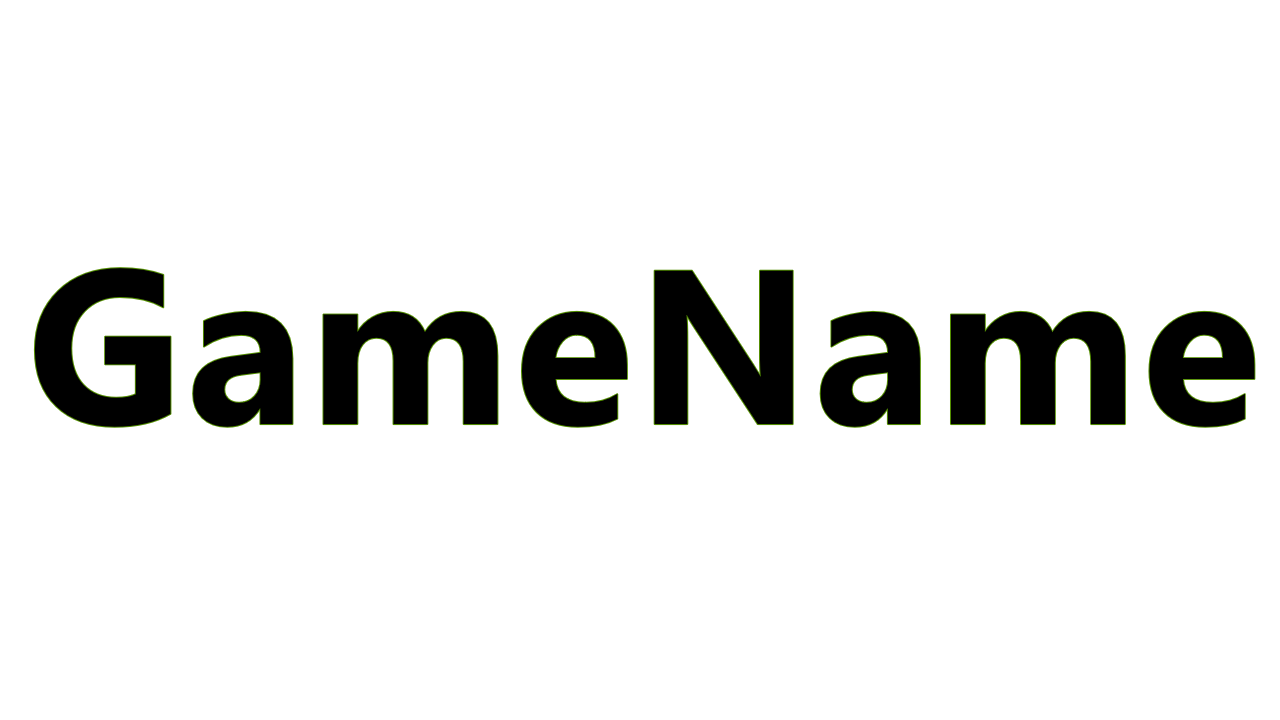
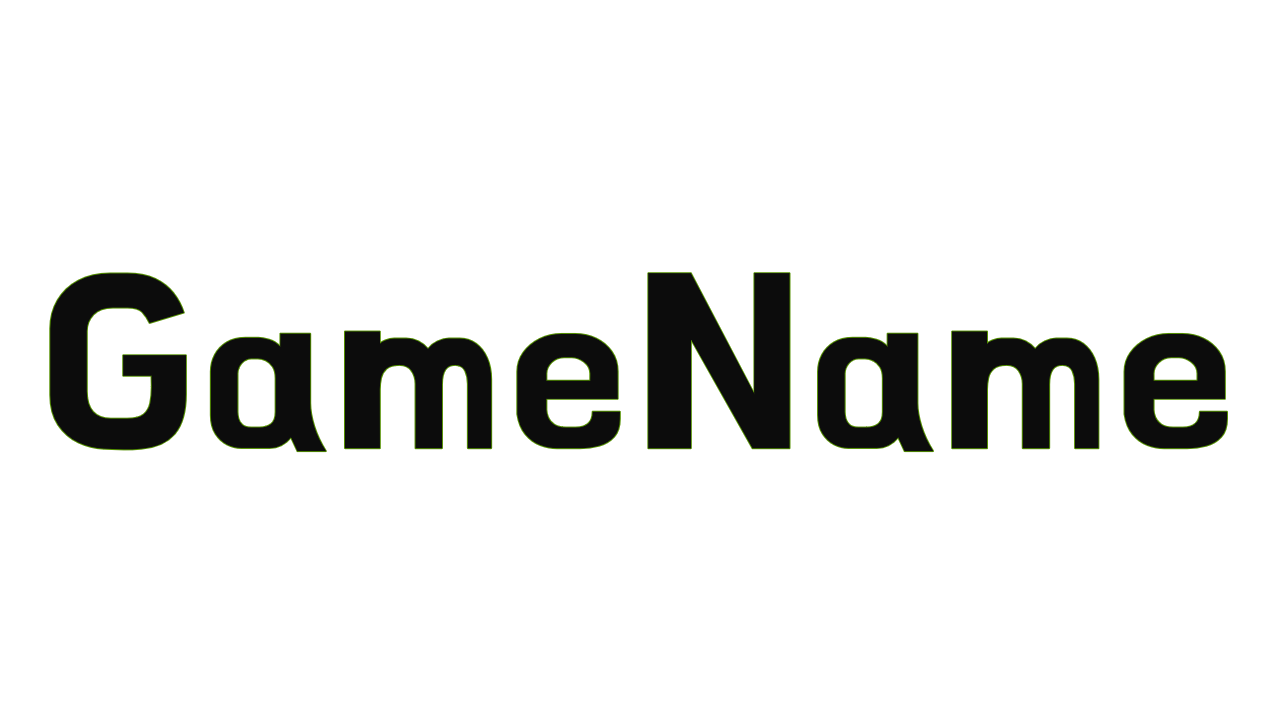
とりえあずゲーム名の表示もできた

Changed region(s): [[0.0, 0.3667, 1.0, 0.6417]]

diff --git a/Project/Application/GameObject/Others/TitleUIManager/TitleUIManager.cpp b/Project/Application/GameObject/Others/TitleUIManager/TitleUIManager.cpp
@@ -5,6 +5,11 @@
 // 初期化処理
 void TitleUIManager::Init()
 {
+    // ゲーム名オブジェクトの初期化
+    gameName_ = std::make_unique<GameNameBar>();
+    gameName_->Init();
+
+
     // ラベルのモデルパス
     std::pair<std::string, std::string> myArray[2] = {
         {"Obj/TitleLabel/Start", "TitleLabel_Start.obj"},
@@ -32,6 +37,8 @@ void TitleUIManager::Init()
 // 更新処理
 void TitleUIManager::Update()
 {
+    gameName_->Update();
+
     for (auto& element : labelObjs_) {
         element->Update();
     }
@@ -41,6 +48,8 @@ void TitleUIManager::Update()
 // 描画処理
 void TitleUIManager::Draw3D()
 {
+    gameName_->Draw3D();
+
     for (auto& element : labelObjs_) {
         element->Draw3D();
     }

diff --git a/Project/Application/GameObject/Others/TitleUIManager/GameNameBar/GameNameBar.cpp b/Project/Application/GameObject/Others/TitleUIManager/GameNameBar/GameNameBar.cpp
@@ -7,12 +7,12 @@ void GameNameBar::Init()
 {
 	// Modelの設定
 	modelManager_ = ModelManager::GetInstance();
-	modelManager_->LoadModel("Obj/GameNameBar", "GameNameBar");
+	modelManager_->LoadModel("Obj/GameNameBar", "GameNameBar.obj");
 	model_ = modelManager_->GetModel("GameNameBar");
 
 	// Transformの初期化
 	trans_.Init();
-	trans_.srt.translate = Vector3::zero;
+	trans_.srt.translate.y = 0.35f;
 	trans_.srt.translate.z = 5.0f;
 }
 

diff --git a/Project/Application/GameObject/Others/TitleUIManager/TitleUIManager.h b/Project/Application/GameObject/Others/TitleUIManager/TitleUIManager.h
@@ -3,6 +3,7 @@
 #include "GameObject/GameObject.h"
 #include "GameObject/IObject/IObject.h"
 
+#include "GameNameBar/GameNameBar.h"
 #include "TitleLabelObject/TitleLabelObject.h"
 
 
@@ -32,6 +33,9 @@ public:
 
 
 private:
+
+	// ゲームネーム
+	std::unique_ptr<GameNameBar> gameName_;
 
 	// ラベル
 	std::vector<std::unique_ptr<TitleLabelObject>> labelObjs_;
